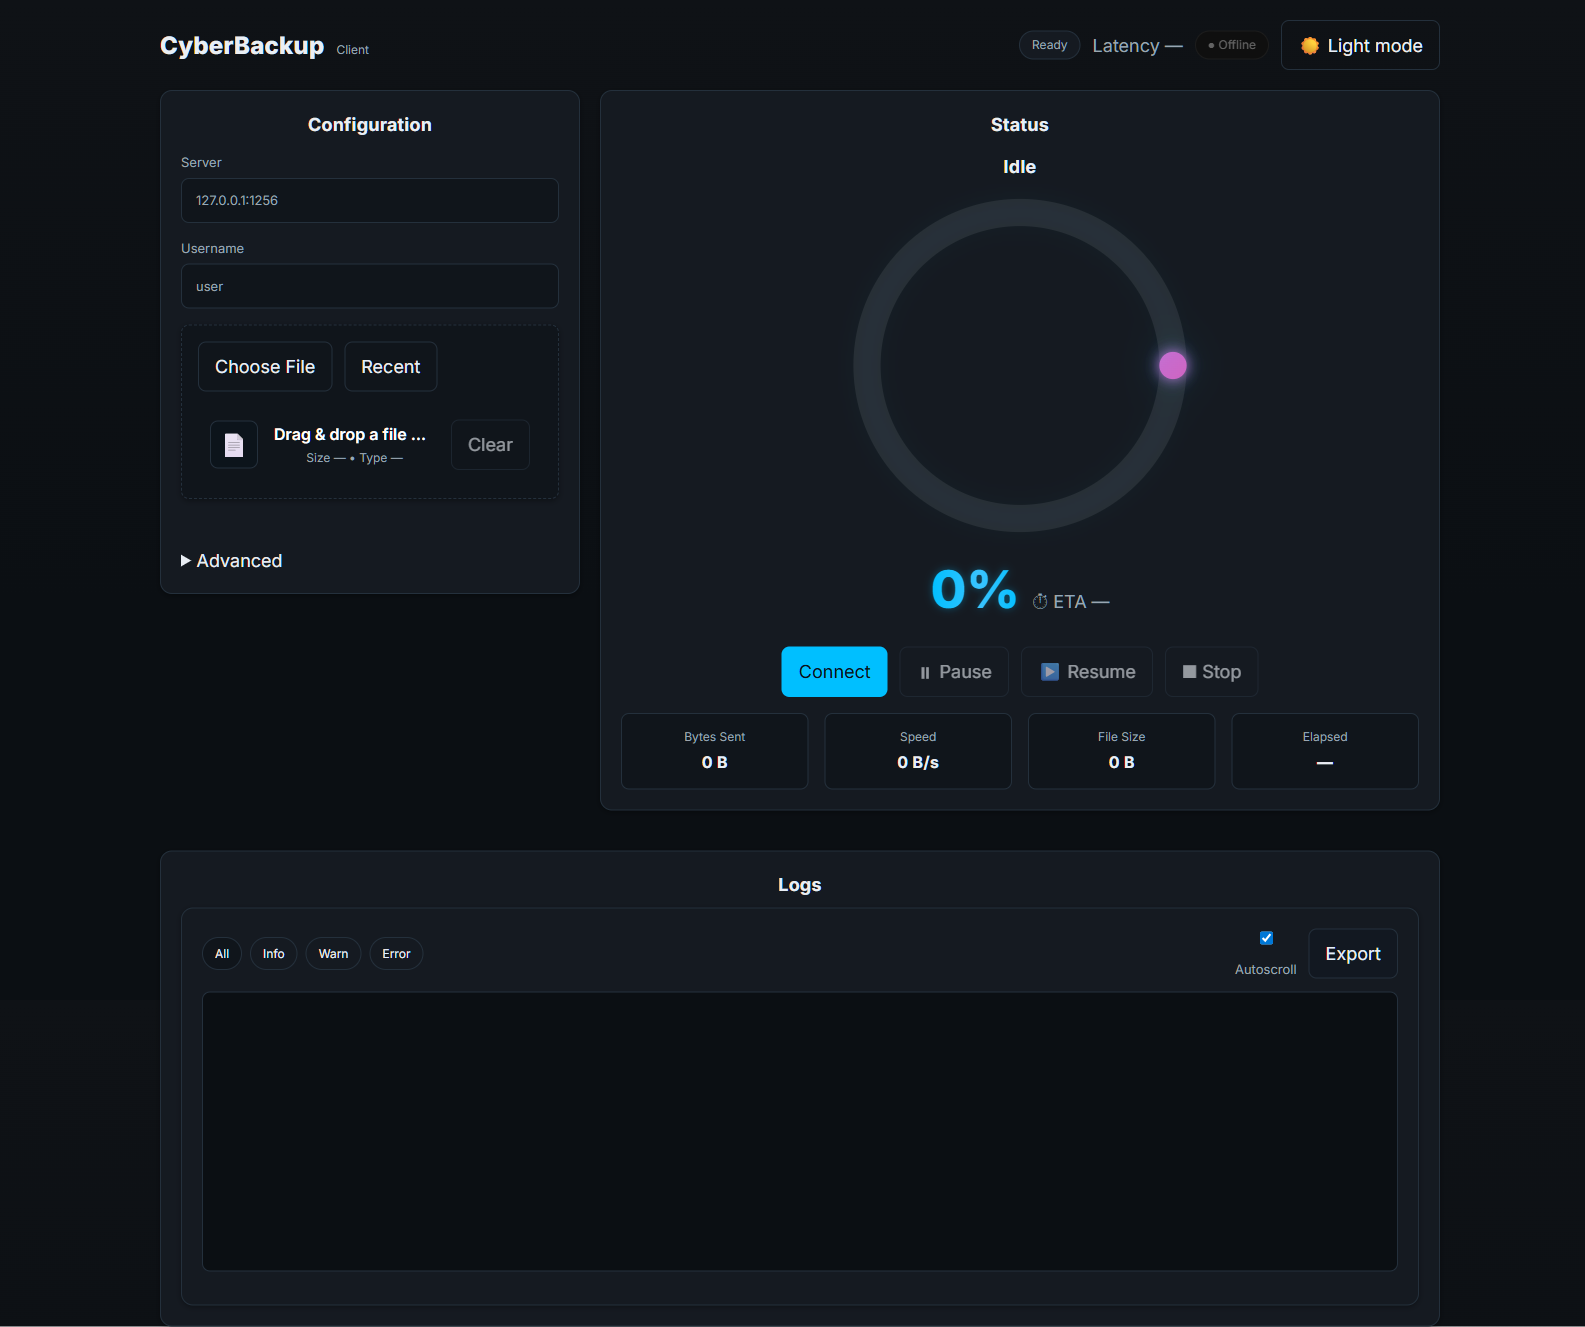
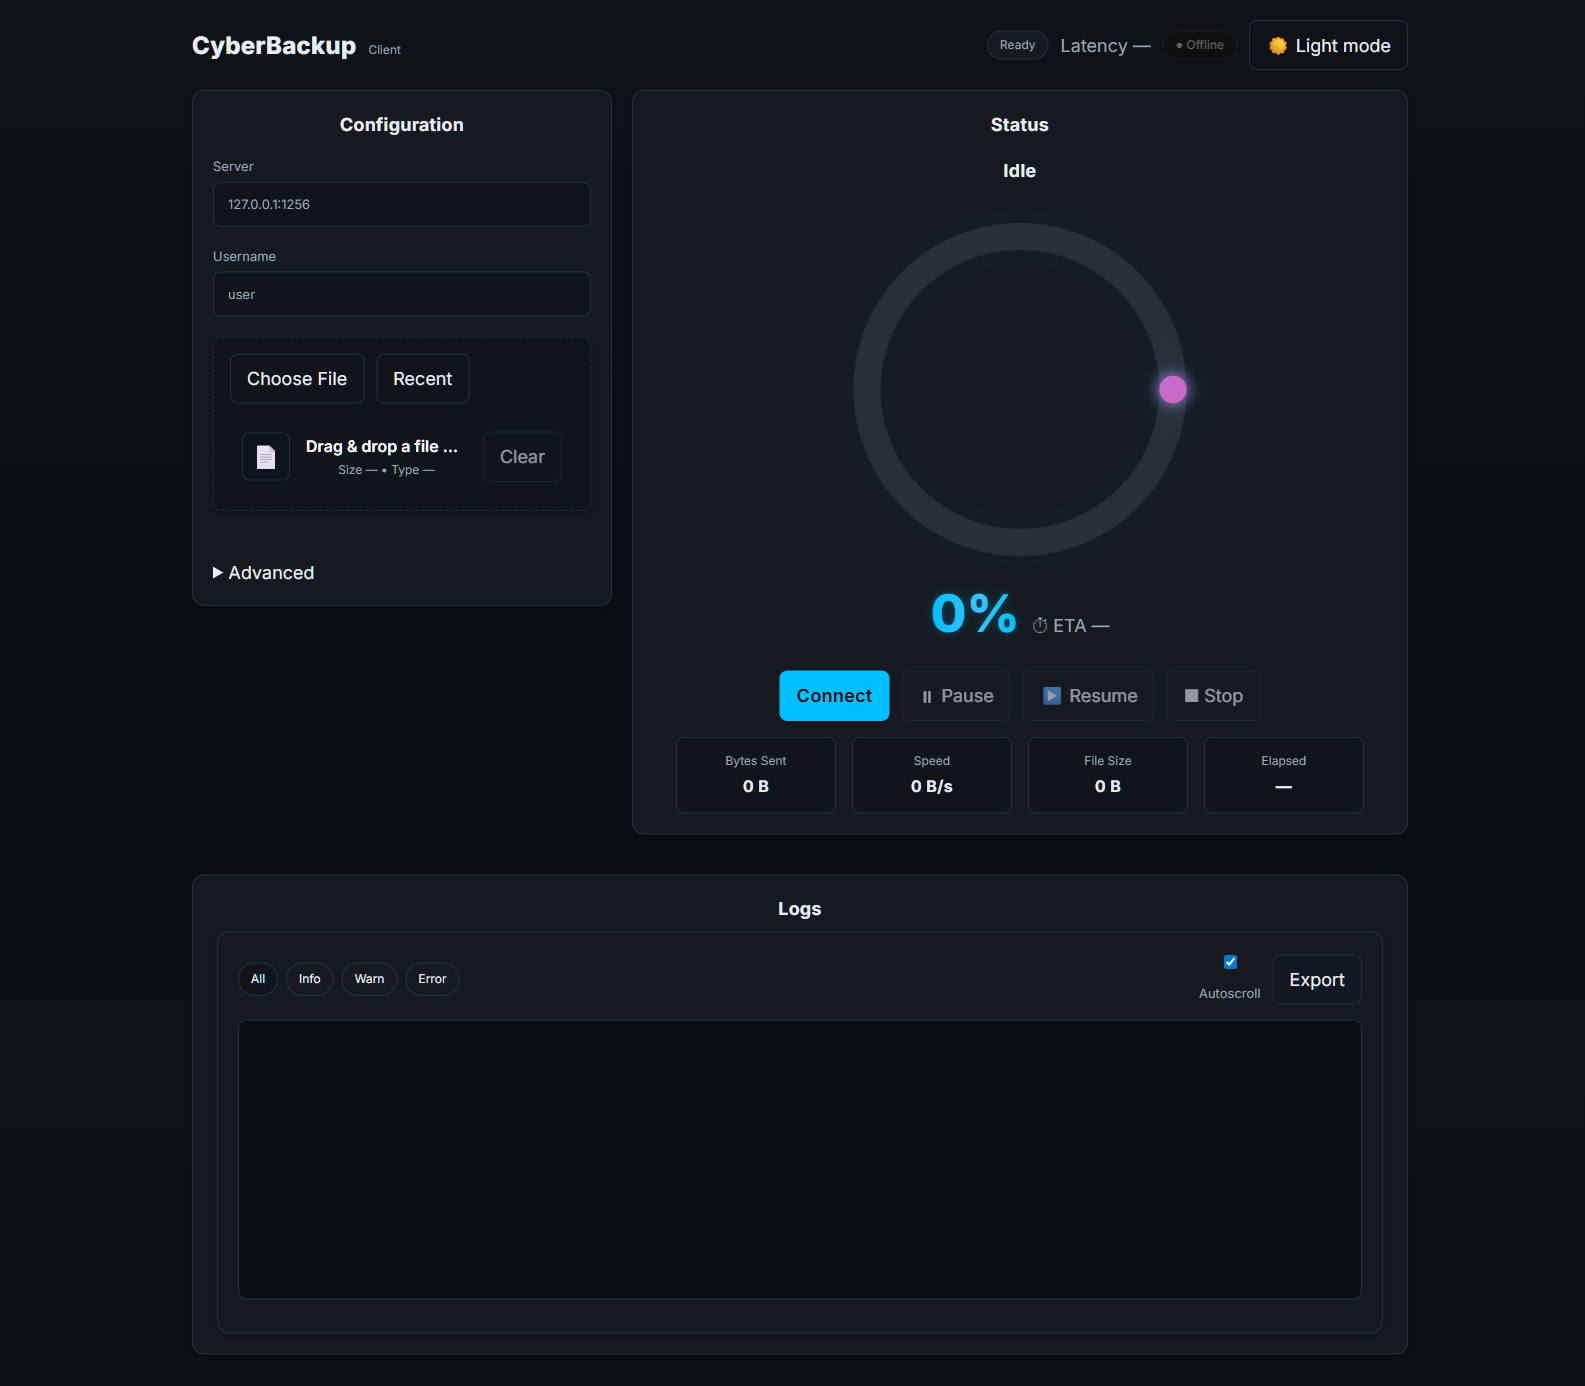
more changes

diff --git a/Client/Client-gui/NewGUIforClient.html b/Client/Client-gui/NewGUIforClient.html
@@ -263,35 +263,24 @@
         // Create fallback error element safely
         function createErrorElement() {
             const container = document.createElement('div');
-            container.style.display = 'flex';
-            container.style.alignItems = 'center';
-            container.style.justifyContent = 'center';
-            container.style.height = '100vh';
-            container.style.fontFamily = 'system-ui';
-            container.style.textAlign = 'center';
-            container.style.padding = '20px';
+            container.className = 'load-error';
 
             const innerDiv = document.createElement('div');
+            innerDiv.className = 'load-error__card';
 
             const title = document.createElement('h2');
+            title.className = 'load-error__title';
             title.textContent = '⚠ Application Loading Failed';
-            title.style.color = '#dc2626';
-            title.style.marginBottom = '16px';
 
             const message = document.createElement('p');
+            message.className = 'load-error__message';
             message.textContent = 'A required module failed to load. Please refresh the page.';
-            message.style.color = '#6b7280';
-            message.style.marginBottom = '16px';
 
             const button = document.createElement('button');
+            button.className = 'load-error__action';
+            button.type = 'button';
             button.textContent = 'Refresh Page';
-            button.style.background = '#2563eb';
-            button.style.color = 'white';
-            button.style.border = 'none';
-            button.style.padding = '8px 16px';
-            button.style.borderRadius = '4px';
-            button.style.cursor = 'pointer';
-            button.onclick = () => window.location.reload();
+            button.onclick = () => globalThis.location.reload();
 
             innerDiv.appendChild(title);
             innerDiv.appendChild(message);
@@ -302,7 +291,7 @@
         }
 
         // Global error handler for module loading failures
-        window.addEventListener('error', function(event) {
+        globalThis.addEventListener('error', function(event) {
             if (event.filename && event.filename.includes('scripts/')) {
                 console.error('Module loading failed:', event.filename, event.message);
                 document.body.replaceChildren(createErrorElement());
@@ -311,13 +300,13 @@
 
         // Module loading timeout
         const loadTimeout = setTimeout(() => {
-            if (!window.cyberBackupApp) {
+            if (!globalThis.cyberBackupApp) {
                 console.warn('Application loading timeout - please check console for errors');
             }
         }, 10000);
 
         // Clear timeout if app loads successfully
-        window.addEventListener('DOMContentLoaded', () => {
+        globalThis.addEventListener('DOMContentLoaded', () => {
             clearTimeout(loadTimeout);
         });
     </script>

diff --git a/web_gui_content.html b/web_gui_content.html
@@ -219,35 +219,24 @@
         // Create fallback error element safely
         function createErrorElement() {
             const container = document.createElement('div');
-            container.style.display = 'flex';
-            container.style.alignItems = 'center';
-            container.style.justifyContent = 'center';
-            container.style.height = '100vh';
-            container.style.fontFamily = 'system-ui';
-            container.style.textAlign = 'center';
-            container.style.padding = '20px';
+            container.className = 'load-error';
 
             const innerDiv = document.createElement('div');
+            innerDiv.className = 'load-error__card';
 
             const title = document.createElement('h2');
+            title.className = 'load-error__title';
             title.textContent = '⚠ Application Loading Failed';
-            title.style.color = '#dc2626';
-            title.style.marginBottom = '16px';
 
             const message = document.createElement('p');
+            message.className = 'load-error__message';
             message.textContent = 'A required module failed to load. Please refresh the page.';
-            message.style.color = '#6b7280';
-            message.style.marginBottom = '16px';
 
             const button = document.createElement('button');
+            button.className = 'load-error__action';
+            button.type = 'button';
             button.textContent = 'Refresh Page';
-            button.style.background = '#2563eb';
-            button.style.color = 'white';
-            button.style.border = 'none';
-            button.style.padding = '8px 16px';
-            button.style.borderRadius = '4px';
-            button.style.cursor = 'pointer';
-            button.onclick = () => window.location.reload();
+            button.onclick = () => globalThis.location.reload();
 
             innerDiv.appendChild(title);
             innerDiv.appendChild(message);
@@ -258,7 +247,7 @@
         }
 
         // Global error handler for module loading failures
-        window.addEventListener('error', function(event) {
+        globalThis.addEventListener('error', function(event) {
             if (event.filename && event.filename.includes('scripts/')) {
                 console.error('Module loading failed:', event.filename, event.message);
                 document.body.replaceChildren(createErrorElement());
@@ -267,13 +256,13 @@
 
         // Module loading timeout
         const loadTimeout = setTimeout(() => {
-            if (!window.cyberBackupApp) {
+            if (!globalThis.cyberBackupApp) {
                 console.warn('Application loading timeout - please check console for errors');
             }
         }, 10000);
 
         // Clear timeout if app loads successfully
-        window.addEventListener('DOMContentLoaded', () => {
+        globalThis.addEventListener('DOMContentLoaded', () => {
             clearTimeout(loadTimeout);
         });
     </script>

diff --git a/Client/Client-gui/styles/app.css b/Client/Client-gui/styles/app.css
@@ -80,6 +80,7 @@ summary {
 .container {
   width: min(1280px, calc(100vw - 64px));
   margin: 0 auto;
+  padding: 0 32px 32px; /* add consistent horizontal rhythm */
   display: flex;
   flex-direction: column;
   gap: var(--gap-4);
@@ -206,6 +207,58 @@ section.logs {
   display: flex;
   flex-direction: column;
   gap: var(--gap-3);
+  position: relative;
+}
+
+/* Alignment helpers: ensure both primary panels share baseline and internal spacing */
+main > .stack:first-child {
+  max-width: 420px;
+}
+main > .stack:last-child {
+  min-height: 100%;
+}
+
+/* Consistent heading spacing */
+.stack .phase:first-child {
+  margin-top: 0;
+  margin-bottom: 4px;
+}
+
+/* Ring centering adjustments */
+main > .stack:last-child .center {
+  padding-top: 12px;
+}
+
+/* Actions row width limit for neat alignment */
+.actions {
+  max-width: 560px;
+  margin-left: auto;
+  margin-right: auto;
+}
+
+/* Stats grid fluid layout with a max width to align under actions */
+#statsGrid {
+  max-width: 760px;
+  margin-left: auto;
+  margin-right: auto;
+}
+
+/* Log section alignment: center within container width */
+section.logs {
+  max-width: 100%;
+  padding-left: 24px;
+  padding-right: 24px;
+}
+
+/* Tighten label spacing for visual neatness */
+label {
+  margin-bottom: 4px;
+}
+
+/* Button visual consistency */
+button.primary {
+  font-weight: 600;
+  letter-spacing: .3px;
 }
 
 .row {
@@ -370,6 +423,7 @@ svg {
   place-items: center;
   /* subtle glow */
   filter: drop-shadow(0 0 6px rgba(0,191,255,0.25)) drop-shadow(0 0 18px rgba(0,191,255,0.12));
+  margin: 8px auto 0; /* center horizontally, slight top offset */
 }
 
 .kpi {
@@ -548,6 +602,61 @@ svg {
 .toast.closing {
   opacity: 0;
   transform: translateY(-4px);
+}
+
+.load-error {
+  display: flex;
+  align-items: center;
+  justify-content: center;
+  min-height: 100vh;
+  padding: 24px;
+  text-align: center;
+  background: var(--bg);
+  color: var(--fg);
+}
+
+.load-error__card {
+  background: var(--surface);
+  border: 1px solid var(--border);
+  border-radius: var(--radius-md);
+  padding: var(--gap-4);
+  box-shadow: var(--shadow);
+  max-width: 420px;
+  display: grid;
+  gap: var(--gap-3);
+}
+
+.load-error__title {
+  font-size: var(--fs-20);
+  font-weight: 700;
+  margin: 0;
+  color: var(--danger);
+}
+
+.load-error__message {
+  margin: 0;
+  color: var(--muted);
+  font-size: var(--fs-14);
+}
+
+.load-error__action {
+  justify-self: center;
+  padding: 10px 18px;
+  border-radius: var(--radius-sm);
+  border: none;
+  background: var(--accent);
+  color: #091017;
+  font-weight: 600;
+  cursor: pointer;
+  transition: transform 0.04s ease, filter 0.12s ease;
+}
+
+.load-error__action:hover {
+  filter: brightness(1.05);
+}
+
+.load-error__action:active {
+  transform: translateY(1px);
 }
 
 .modal {

diff --git a/Client/Client-gui/scripts/app.js b/Client/Client-gui/scripts/app.js
@@ -29,8 +29,8 @@ class ErrorBoundary {
 
     // Log to application logs if available
     try {
-      if (window.cyberBackupApp?.logs) {
-        window.cyberBackupApp.logs.add(userMessage, { level: 'error', phase: 'ERROR' });
+      if (globalThis.cyberBackupApp?.logs) {
+        globalThis.cyberBackupApp.logs.add(userMessage, { level: 'error', phase: 'ERROR' });
       }
     } catch (logError) {
       console.warn('Failed to log error to application logs:', logError);
@@ -38,8 +38,8 @@ class ErrorBoundary {
 
     // Show toast notification if available
     try {
-      if (window.cyberBackupApp?.toast) {
-        window.cyberBackupApp.toast.show(userMessage, 'error', 5000);
+      if (globalThis.cyberBackupApp?.toast) {
+        globalThis.cyberBackupApp.toast.show(userMessage, 'error', 5000);
       }
     } catch (toastError) {
       console.warn('Failed to show error toast:', toastError);
@@ -488,7 +488,7 @@ class App {
     this.modalKeyHandler = (event) => this.#handleModalKeydown(event);
     dom.modal.addEventListener('keydown', this.modalKeyHandler);
 
-    window.requestAnimationFrame(() => {
+    globalThis.requestAnimationFrame(() => {
       const target = this.modalFocusables[0] || dom.modal;
       if (target && typeof target.focus === 'function') {
         target.focus();
@@ -861,7 +861,7 @@ class App {
   #startJobStatusLoop(jobId) {
     this.#stopJobStatusLoop();
     const poll = () => this.#refreshStatus(jobId);
-    this.jobStatusTimer = window.setInterval(poll, STATUS_INTERVAL_MS);
+    this.jobStatusTimer = globalThis.setInterval(poll, STATUS_INTERVAL_MS);
     poll();
   }
 
@@ -883,7 +883,7 @@ class App {
       }
       this.#refreshStatus();
     };
-    this.generalStatusTimer = window.setInterval(poll, GENERAL_STATUS_INTERVAL_MS);
+    this.generalStatusTimer = globalThis.setInterval(poll, GENERAL_STATUS_INTERVAL_MS);
     poll();
   }
 

diff --git a/Client/Client-gui/scripts/services/socket-client.js b/Client/Client-gui/scripts/services/socket-client.js
@@ -9,9 +9,14 @@ const DEFAULT_OPTIONS = {
   withCredentials: true,
 };
 
+const DEFAULT_SOCKET_URL =
+  typeof globalThis.location === 'object' && globalThis.location
+    ? globalThis.location.origin
+    : '';
+
 export class SocketClient {
-  constructor({ url = window.location.origin, options = {}, onConnect, onDisconnect, onError, onStatus, onProgress, onFileReceipt }) {
-    this.url = url;
+  constructor({ url = DEFAULT_SOCKET_URL, options = {}, onConnect, onDisconnect, onError, onStatus, onProgress, onFileReceipt }) {
+    this.url = url ?? DEFAULT_SOCKET_URL;
     this.options = { ...DEFAULT_OPTIONS, ...options };
     this.onConnect = typeof onConnect === 'function' ? onConnect : () => {};
     this.onDisconnect = typeof onDisconnect === 'function' ? onDisconnect : () => {};
@@ -100,8 +105,8 @@ export class SocketClient {
       return this.ioFactory;
     }
 
-    if (typeof window !== 'undefined' && window.io) {
-      this.ioFactory = window.io;
+    if (globalThis.io) {
+      this.ioFactory = globalThis.io;
       return this.ioFactory;
     }
 

diff --git a/Client/Client-gui/scripts/services/connection-monitor.js b/Client/Client-gui/scripts/services/connection-monitor.js
@@ -16,12 +16,12 @@ export class ConnectionMonitor {
   start() {
     this.stop();
     this.#tick();
-    this.timer = window.setInterval(() => this.#tick(), this.interval);
+    this.timer = globalThis.setInterval(() => this.#tick(), this.interval);
   }
 
   stop() {
     if (this.timer) {
-      clearInterval(this.timer);
+      globalThis.clearInterval(this.timer);
       this.timer = null;
     }
     this.inFlight = null;
